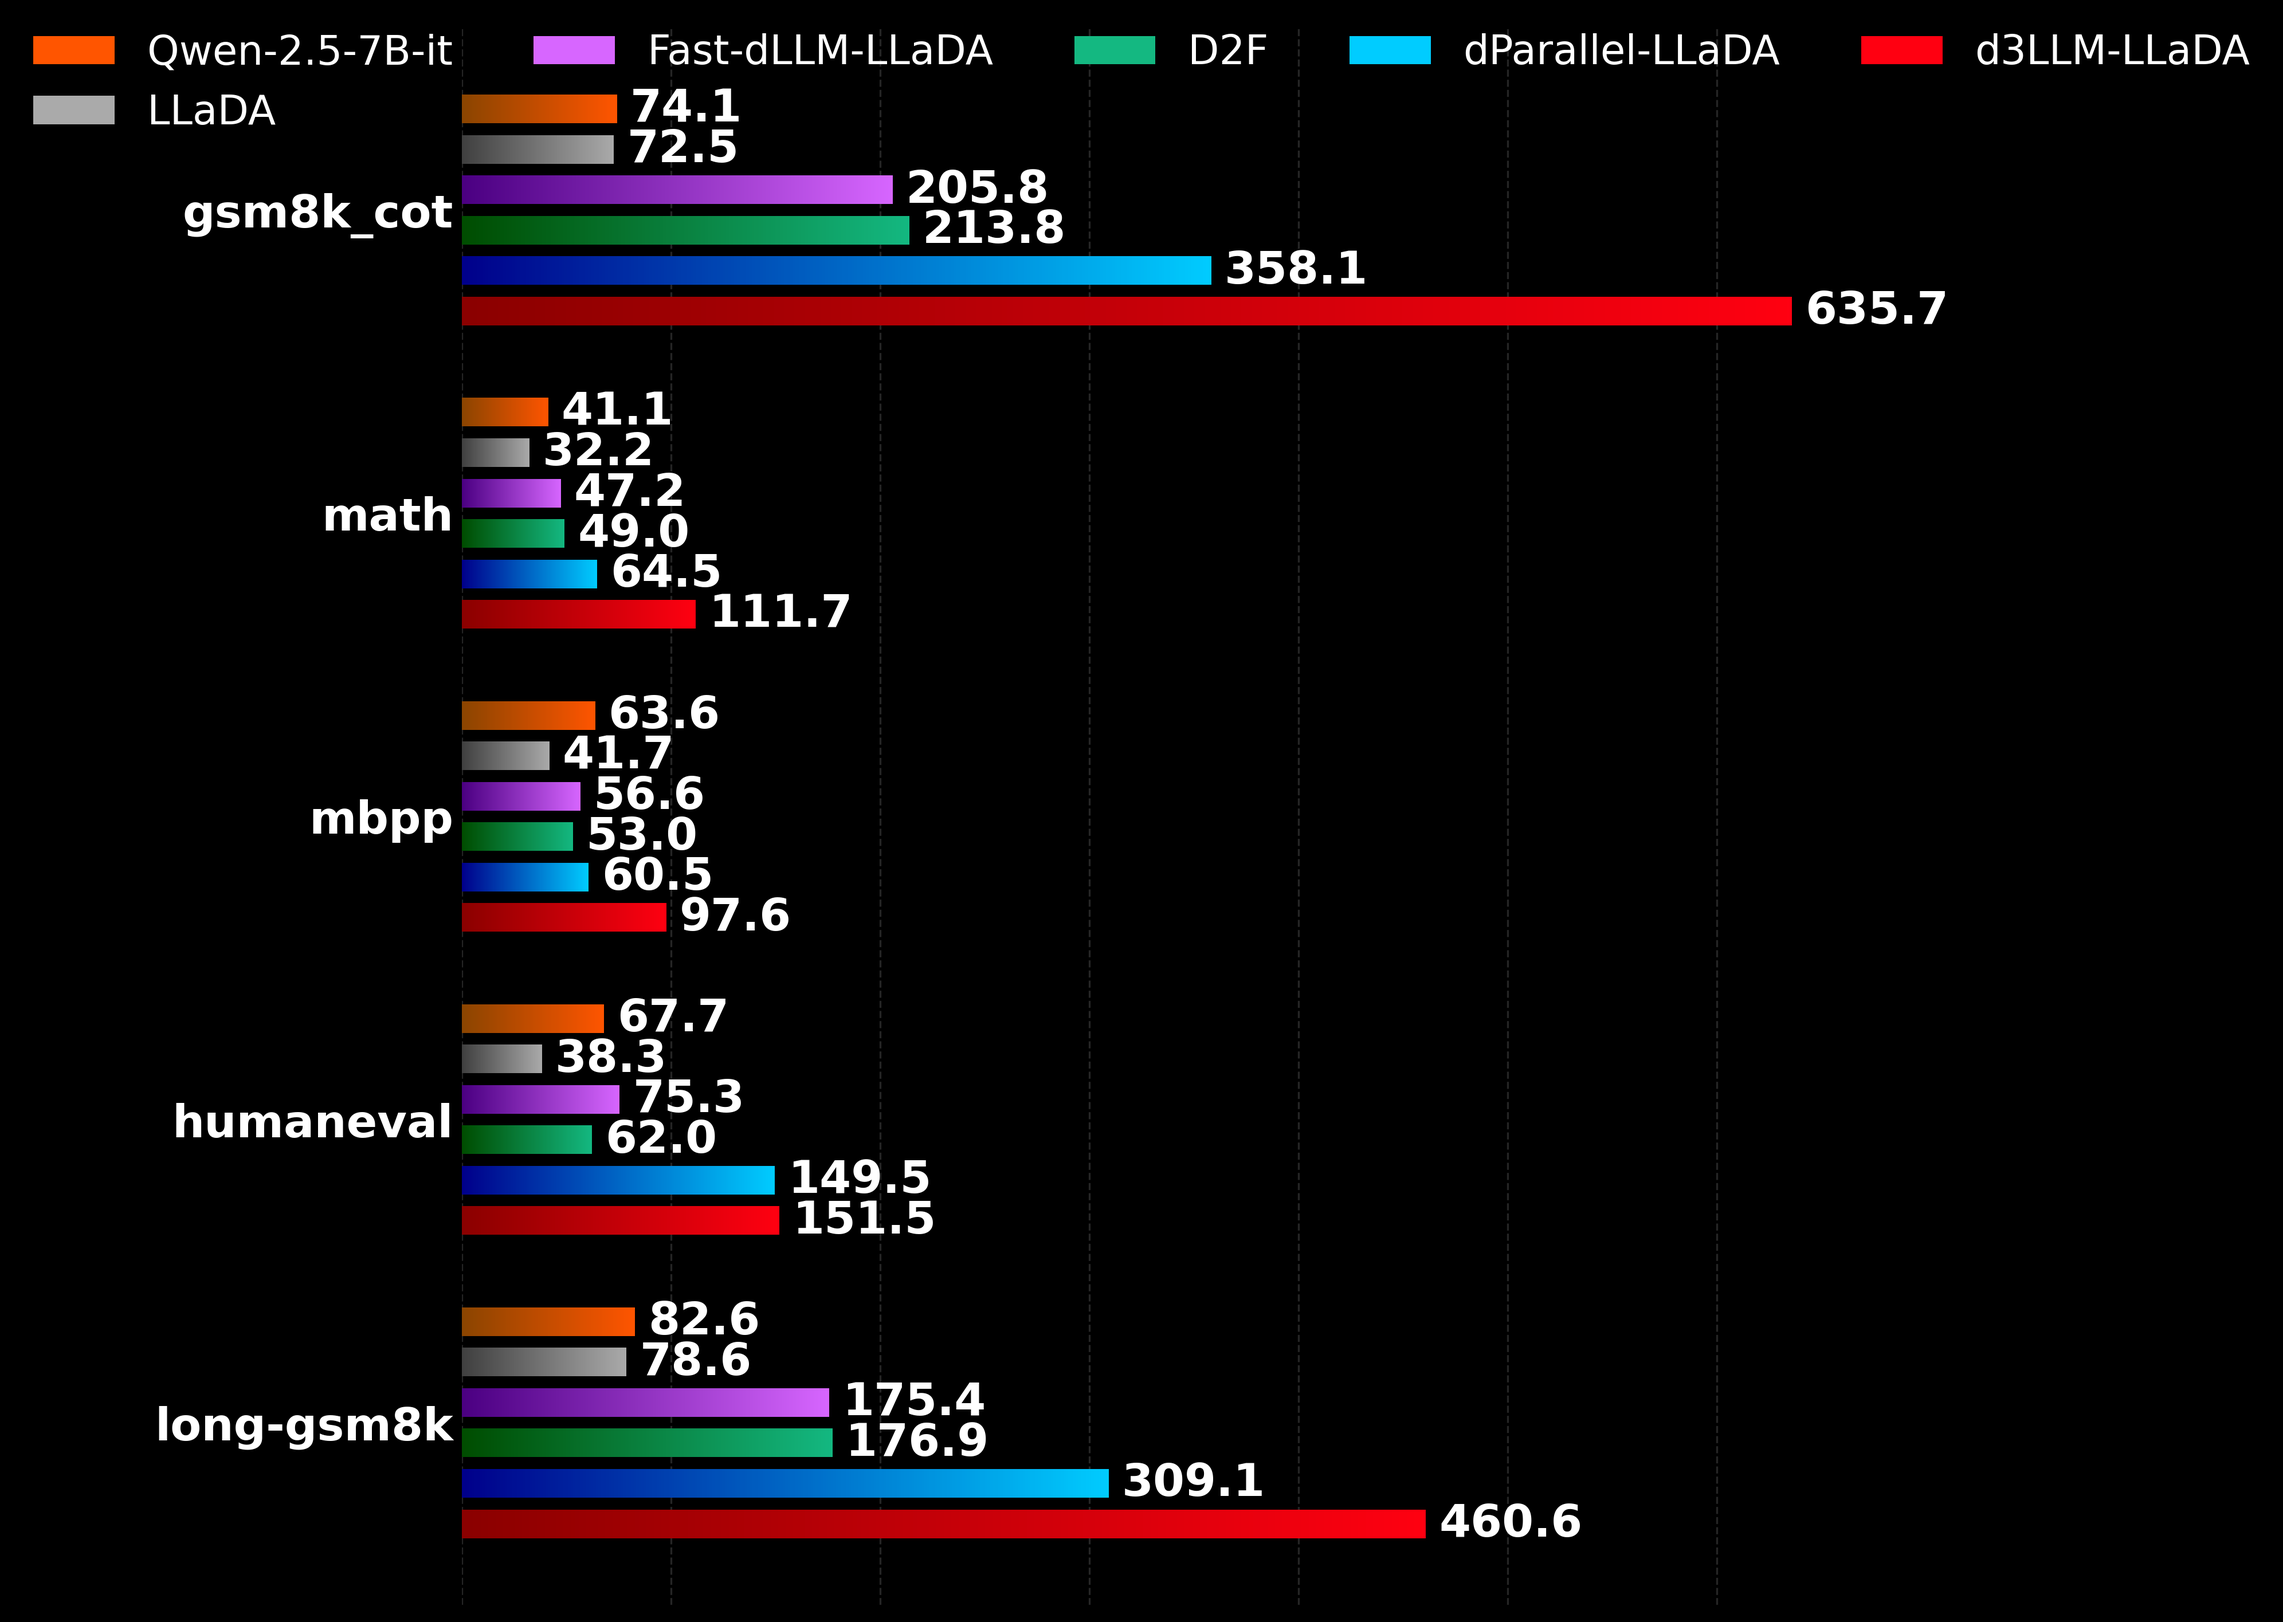
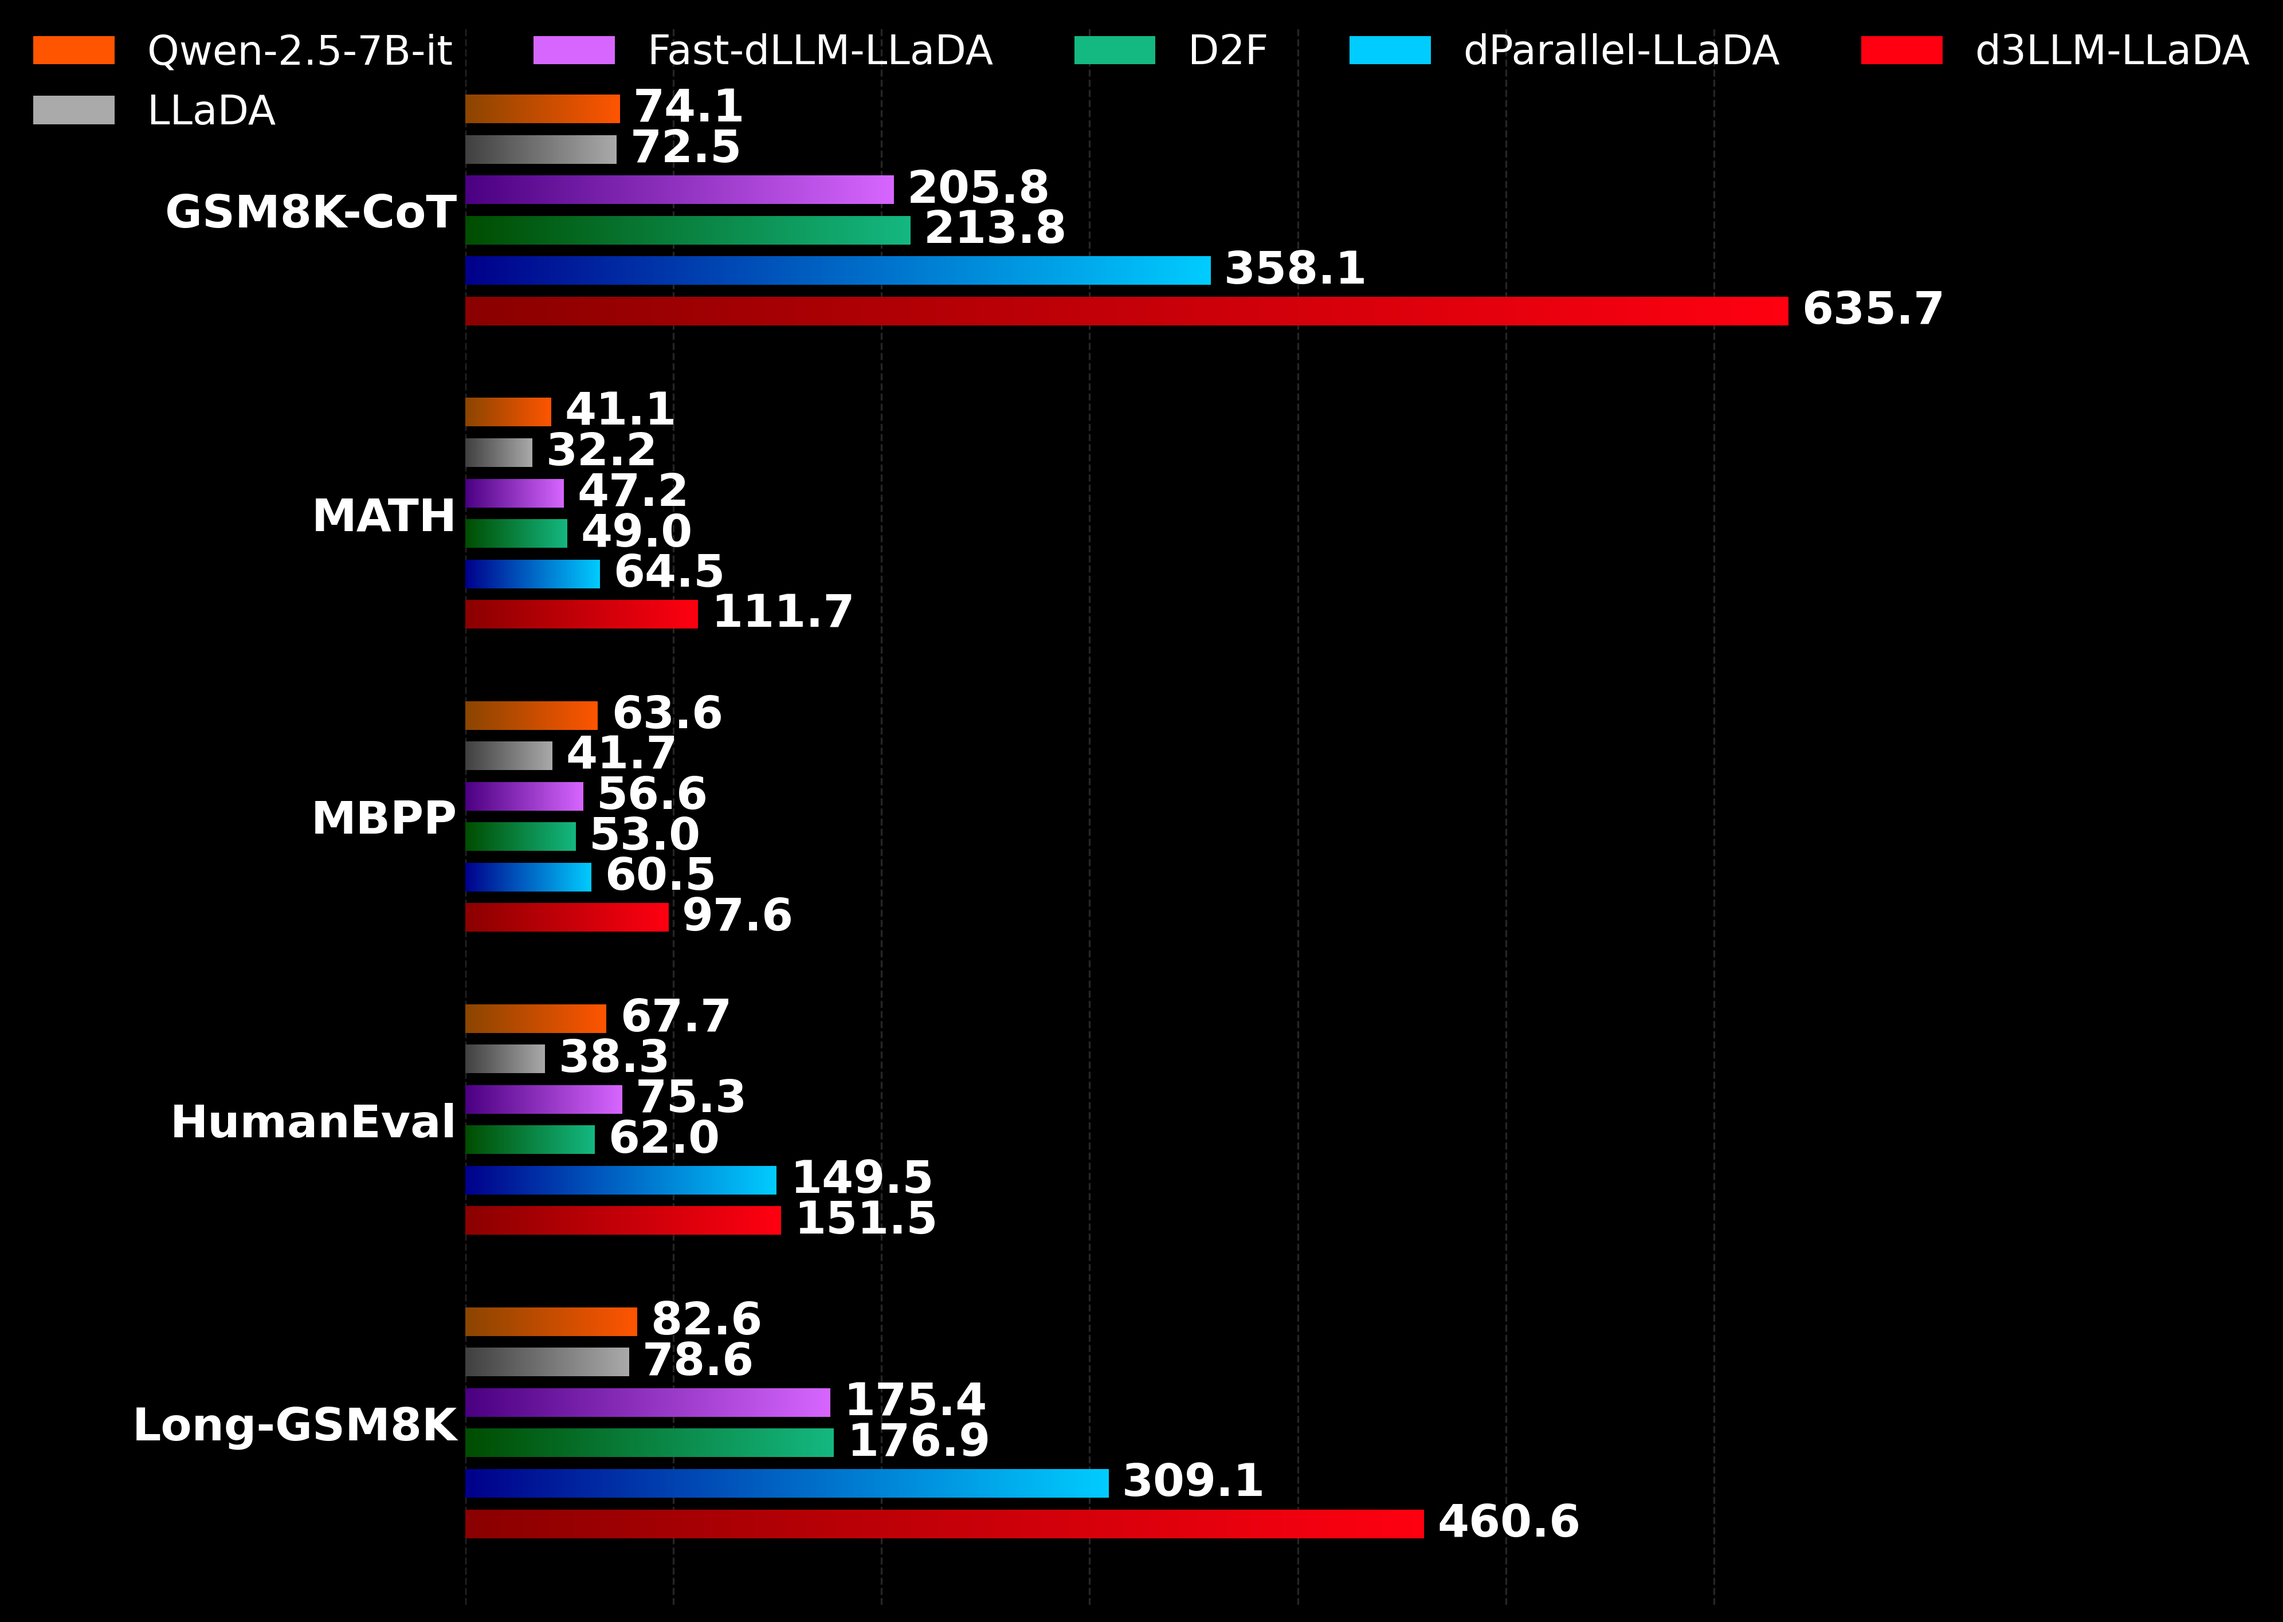
Update figs

diff --git a/content/blogs/text-diffusion/index.md b/content/blogs/text-diffusion/index.md
@@ -145,7 +145,7 @@ These insights motivate us to ***design a new unified metric*** – **AUP**, whi
 {{< justify >}}
 
 
-Most dLLM methods already expose certain knobs that trade off speed and quality. e.g., Fast-dLLM employs a logit “threshold”,where tokens with logits above this threshold can be decoded in parallel. By sweeping this threshold, we can adjust the quality–speed trade-off and obtain multiple parallelism–accuracy pairs, which can then be used to plot a curve of accuracy versus parallelism. We refer to this curve as the ***accuracy–parallelism curve*** (see the white curve in Figure 1 for an illustration), which characterizes the trade-off frontier dLLMs navigate.
+Most dLLM methods already expose certain knobs that trade off speed and quality. e.g., Fast-dLLM employs a logit “threshold”, where tokens with logits above this threshold can be decoded in parallel. By sweeping this threshold, we can adjust the quality–speed trade-off and obtain multiple parallelism–accuracy pairs, which can then be used to plot a curve of accuracy versus parallelism. We refer to this curve as the ***accuracy–parallelism curve*** (see the white curve in Figure 1 for an illustration), which characterizes the trade-off frontier dLLMs navigate.
 
 A natural first attempt is to summarize the curve by the area under the curve (AUC). But plain AUC has a serious failure mode: it can reward models that become extremely fast by letting accuracy collapse. The right side of the curve can contribute lots of area even if the model is not useful in practice. We want a metric that strongly prefers staying in a high-accuracy regime, and only then rewards higher parallelism.
 
@@ -205,7 +205,7 @@ Once we scored existing methods using AUP, the landscape became clearer (see Tab
 
 {{< justify >}}
 
-Following the guidance of the AUP score, we introduce ***[d3LLM](https://github.com/hao-ai-lab/d3LLM)*** (*pseuDo-Distillated-Diffusion Large Language Model*), a novel framework for constructing dLLMs with both high accuracy and high parallelism. d3LLM combines two main ideas:
+Following the guidance of the AUP score, we introduce ***[d3LLM](https://github.com/hao-ai-lab/d3LLM)*** [(*pseuDo-Distillated-Diffusion Large Language Model*)](https://github.com/hao-ai-lab/d3LLM), a novel framework for constructing dLLMs with both high accuracy and high parallelism. d3LLM combines two main ideas:
 1.	*Pseudo-trajectory distillation (training)*: Instead of distilling only from a teacher’s final answers, we distill from the teacher diffusion model’s decoding order (the order in which it unmasks tokens). This provides intermediate supervision about which tokens can be safely decoded earlier, which directly improves parallelism. we design a ***curriculum learning strategy*** that gradually increases the masking ratio from easier scenarios (few masks) to more difficult ones (many masks) during training, resulting in a more robust distillation process.
 2.	*Multi-block decoding with KV-cache refresh (inference)*: At inference time, we decode multiple blocks in parallel based on confidence (entropy), and we introduce a ***KV-cache refresh mechanism*** to prevent quality degradation that can occur with aggressive multi-block parallelism.
 
@@ -334,13 +334,13 @@ For the **LLaDA-based models**, we compare our *d3LLM-LLaDA* with _vanilla LLaDA
 
 <figure>
 <div class="responsive-img-grid">
-  <img src="img/data_llada_aup_curve_gsm8k_cot.png" alt="LLaDA GSM8K-CoT" data-width="30.2">
-  <img src="img/data_llada_aup_curve_humaneval.png" alt="LLaDA HumanEval" data-width="33">
-  <img src="img/data_llada_aup_curve_mbpp.png" alt="LLaDA MBPP" data-width="31.2">
+  <img src="img/data_llada_aup_curve_GSM8K-CoT.png" alt="LLaDA GSM8K-CoT" data-width="31">
+  <img src="img/data_llada_aup_curve_HumanEval.png" alt="LLaDA HumanEval" data-width="31.7">
+  <img src="img/data_llada_aup_curve_MBPP.png" alt="LLaDA MBPP" data-width="29.8">
 </div>
 <div class="responsive-img-grid" style="margin-top: 20px;">
-  <img src="img/data_llada_aup_curve_math.png" alt="LLaDA MATH" data-width="30">
-  <img src="img/data_llada_aup_curve_long-gsm8k.png" alt="LLaDA Long-GSM8K" data-width="30.2">
+  <img src="img/data_llada_aup_curve_MATH.png" alt="LLaDA MATH" data-width="30.2">
+  <img src="img/data_llada_aup_curve_Long-GSM8K.png" alt="LLaDA Long-GSM8K" data-width="30.2">
 </div>
 <figcaption style="text-align: center; color: #808080; margin-top: 10px;">Figure 5: AUP curves for LLaDA-based models across five benchmark tasks (GSM8K-CoT, HumanEval, MBPP, MATH, and Long-GSM8K).</figcaption>
 </figure>
@@ -348,7 +348,7 @@ For the **LLaDA-based models**, we compare our *d3LLM-LLaDA* with _vanilla LLaDA
 <figure>
 <div class="responsive-img-grid">
   <img src="img/data_llada_aup_histogram.png" alt="LLaDA AUP Histogram" data-width="51">
-  <img src="img/data_llada_aup_radar.png" alt="LLaDA AUP Radar" data-width="40.5">
+  <img src="img/data_llada_aup_radar.png" alt="LLaDA AUP Radar" data-width="40.6">
 </div>
 <figcaption style="text-align: center; color: #808080; margin-top: 10px;">Figure 6: AUP scores and radar chart comparing different LLaDA-based methods.</figcaption>
 </figure>
@@ -361,13 +361,13 @@ For the **Dream-based models**, we compare our *d3LLM-Dream* with _vanilla Dream
 
 <figure>
 <div class="responsive-img-grid">
-  <img src="img/data_dream_aup_curve_gsm8k_cot.png" alt="Dream GSM8K-CoT" data-width="29.8">
-  <img src="img/data_dream_aup_curve_humaneval_instruct.png" alt="Dream HumanEval_Instruct" data-width="30.5">
-  <img src="img/data_dream_aup_curve_mbpp_instruct.png" alt="Dream MBPP_Instruct" data-width="30.2">
+  <img src="img/data_dream_aup_curve_GSM8K-CoT.png" alt="Dream GSM8K-CoT" data-width="32.8">
+  <img src="img/data_dream_aup_curve_HumanEval-Instruct.png" alt="Dream HumanEval_Instruct" data-width="30.5">
+  <img src="img/data_dream_aup_curve_MBPP-Instruct.png" alt="Dream MBPP_Instruct" data-width="30.2">
 </div>
 <div class="responsive-img-grid" style="margin-top: 20px;">
-  <img src="img/data_dream_aup_curve_math.png" alt="Dream MATH" data-width="31.2">
-  <img src="img/data_dream_aup_curve_long-gsm8k.png" alt="Dream Long-GSM8K" data-width="30.2">
+  <img src="img/data_dream_aup_curve_MATH.png" alt="Dream MATH" data-width="29.4">
+  <img src="img/data_dream_aup_curve_Long-GSM8K.png" alt="Dream Long-GSM8K" data-width="31.2">
 </div>
 <figcaption style="text-align: center; color: #808080; margin-top: 10px;">Figure 7: AUP curves for Dream-based models across five benchmark tasks (GSM8K-CoT, HumanEval_Instruct, MBPP_Instruct, MATH, and Long-GSM8K).</figcaption>
 </figure>
@@ -402,17 +402,17 @@ The experimental results also validate the reliability of our AUP metric. For ex
 
 <figure>
 <div class="responsive-img-grid">
-  <img src="img/data_dream_coder_aup_curve_humaneval.png" alt="Dream-Coder HumanEval" data-width="22.4">
-  <img src="img/data_dream_coder_aup_curve_humaneval+.png" alt="Dream-Coder HumanEval+" data-width="22.4">
-  <img src="img/data_dream_coder_aup_curve_mbpp.png" alt="Dream-Coder MBPP" data-width="25.4">
-  <img src="img/data_dream_coder_aup_curve_mbpp+.png" alt="Dream-Coder MBPP+" data-width="22.7">
+  <img src="img/data_dream_coder_aup_curve_HumanEval.png" alt="Dream-Coder HumanEval" data-width="22.8">
+  <img src="img/data_dream_coder_aup_curve_HumanEval+.png" alt="Dream-Coder HumanEval+" data-width="22.8">
+  <img src="img/data_dream_coder_aup_curve_MBPP.png" alt="Dream-Coder MBPP" data-width="23.4">
+  <img src="img/data_dream_coder_aup_curve_MBPP+.png" alt="Dream-Coder MBPP+" data-width="22.9">
 </div>
 <figcaption style="text-align: center; color: #808080; margin-top: 10px;">Figure 9: Evaluation for Coders across four coding benchmarks (HumanEval, HumanEval+, MBPP, MBPP+).</figcaption>
 </figure>
 
 <figure>
 <div class="responsive-img-grid">
-  <img src="img/data_dream_coder_aup_histogram.png" alt="Dream-Coder AUP Histogram" data-width="53">
+  <img src="img/data_dream_coder_aup_histogram.png" alt="Dream-Coder AUP Histogram" data-width="55.4">
   <img src="img/data_dream_coder_aup_radar.png" alt="Dream-Coder AUP Radar" data-width="40.6">
 </div>
 <figcaption style="text-align: center; color: #808080; margin-top: 10px;">Figure 10: AUP scores and radar chart comparing different Coder-based methods.</figcaption>
